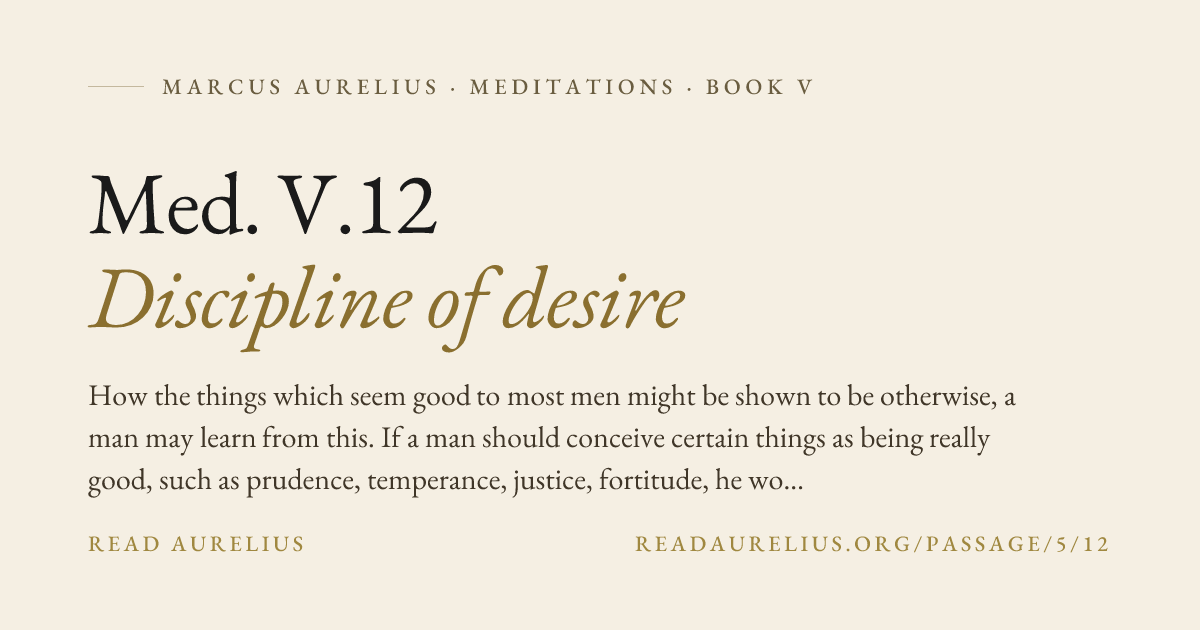
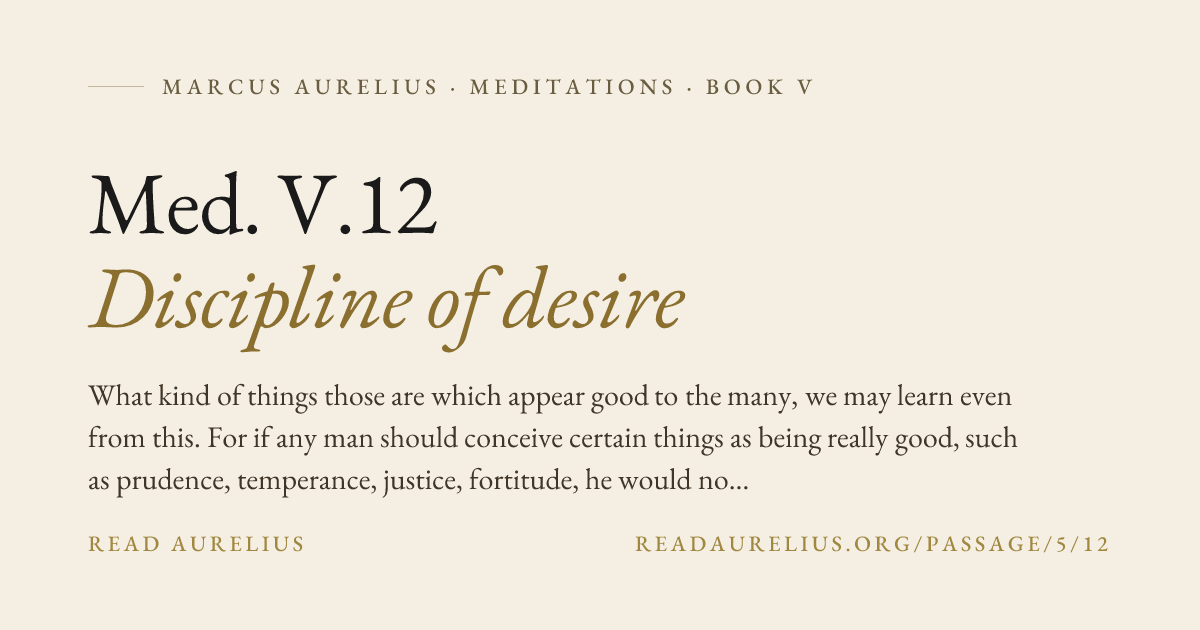
add book 11
Mark book 11 as enhanced (39 passages) and generate its OG images.
Also regenerates OG for Med. 5.12 and 5.14, whose English was replaced
with the verbatim Long translation.

Changed region(s): [[0.0617, 0.6032, 0.8633, 0.7238], [0.0617, 0.754, 0.6783, 0.7841]]

diff --git a/src/lib/ui.ts b/src/lib/ui.ts
@@ -34,7 +34,7 @@ export const BOOK_META = [
   { n: 10, count: 38, enhanced: true, note: { en: 'On acceptance of fate.', ru: 'О принятии судьбы.' },
     themes: { en: 'fate, simplicity, indifference to fame, acceptance', ru: 'судьба, простота, равнодушие к славе, принятие' },
     quote: { en: 'Wilt thou, my soul, never be good and simple and naked?', ru: 'Когда же ты, душа, станешь проста?' } },
-  { n: 11, count: 39, note: { en: 'On rational nature and forbearance.', ru: 'О разуме и терпении.' },
+  { n: 11, count: 39, enhanced: true, note: { en: 'On rational nature and forbearance.', ru: 'О разуме и терпении.' },
     themes: { en: 'rational soul, patience, forbearance, dealing with offenders', ru: 'разумная душа, терпение, выдержка, обращение с обидчиками' },
     quote: { en: 'The properties of the rational soul: it sees itself, analyses itself.', ru: 'Разумная душа видит саму себя.' } },
   { n: 12, count: 36, note: { en: 'Final book. On dying well.', ru: 'Последняя книга. О достойном уходе.' },
